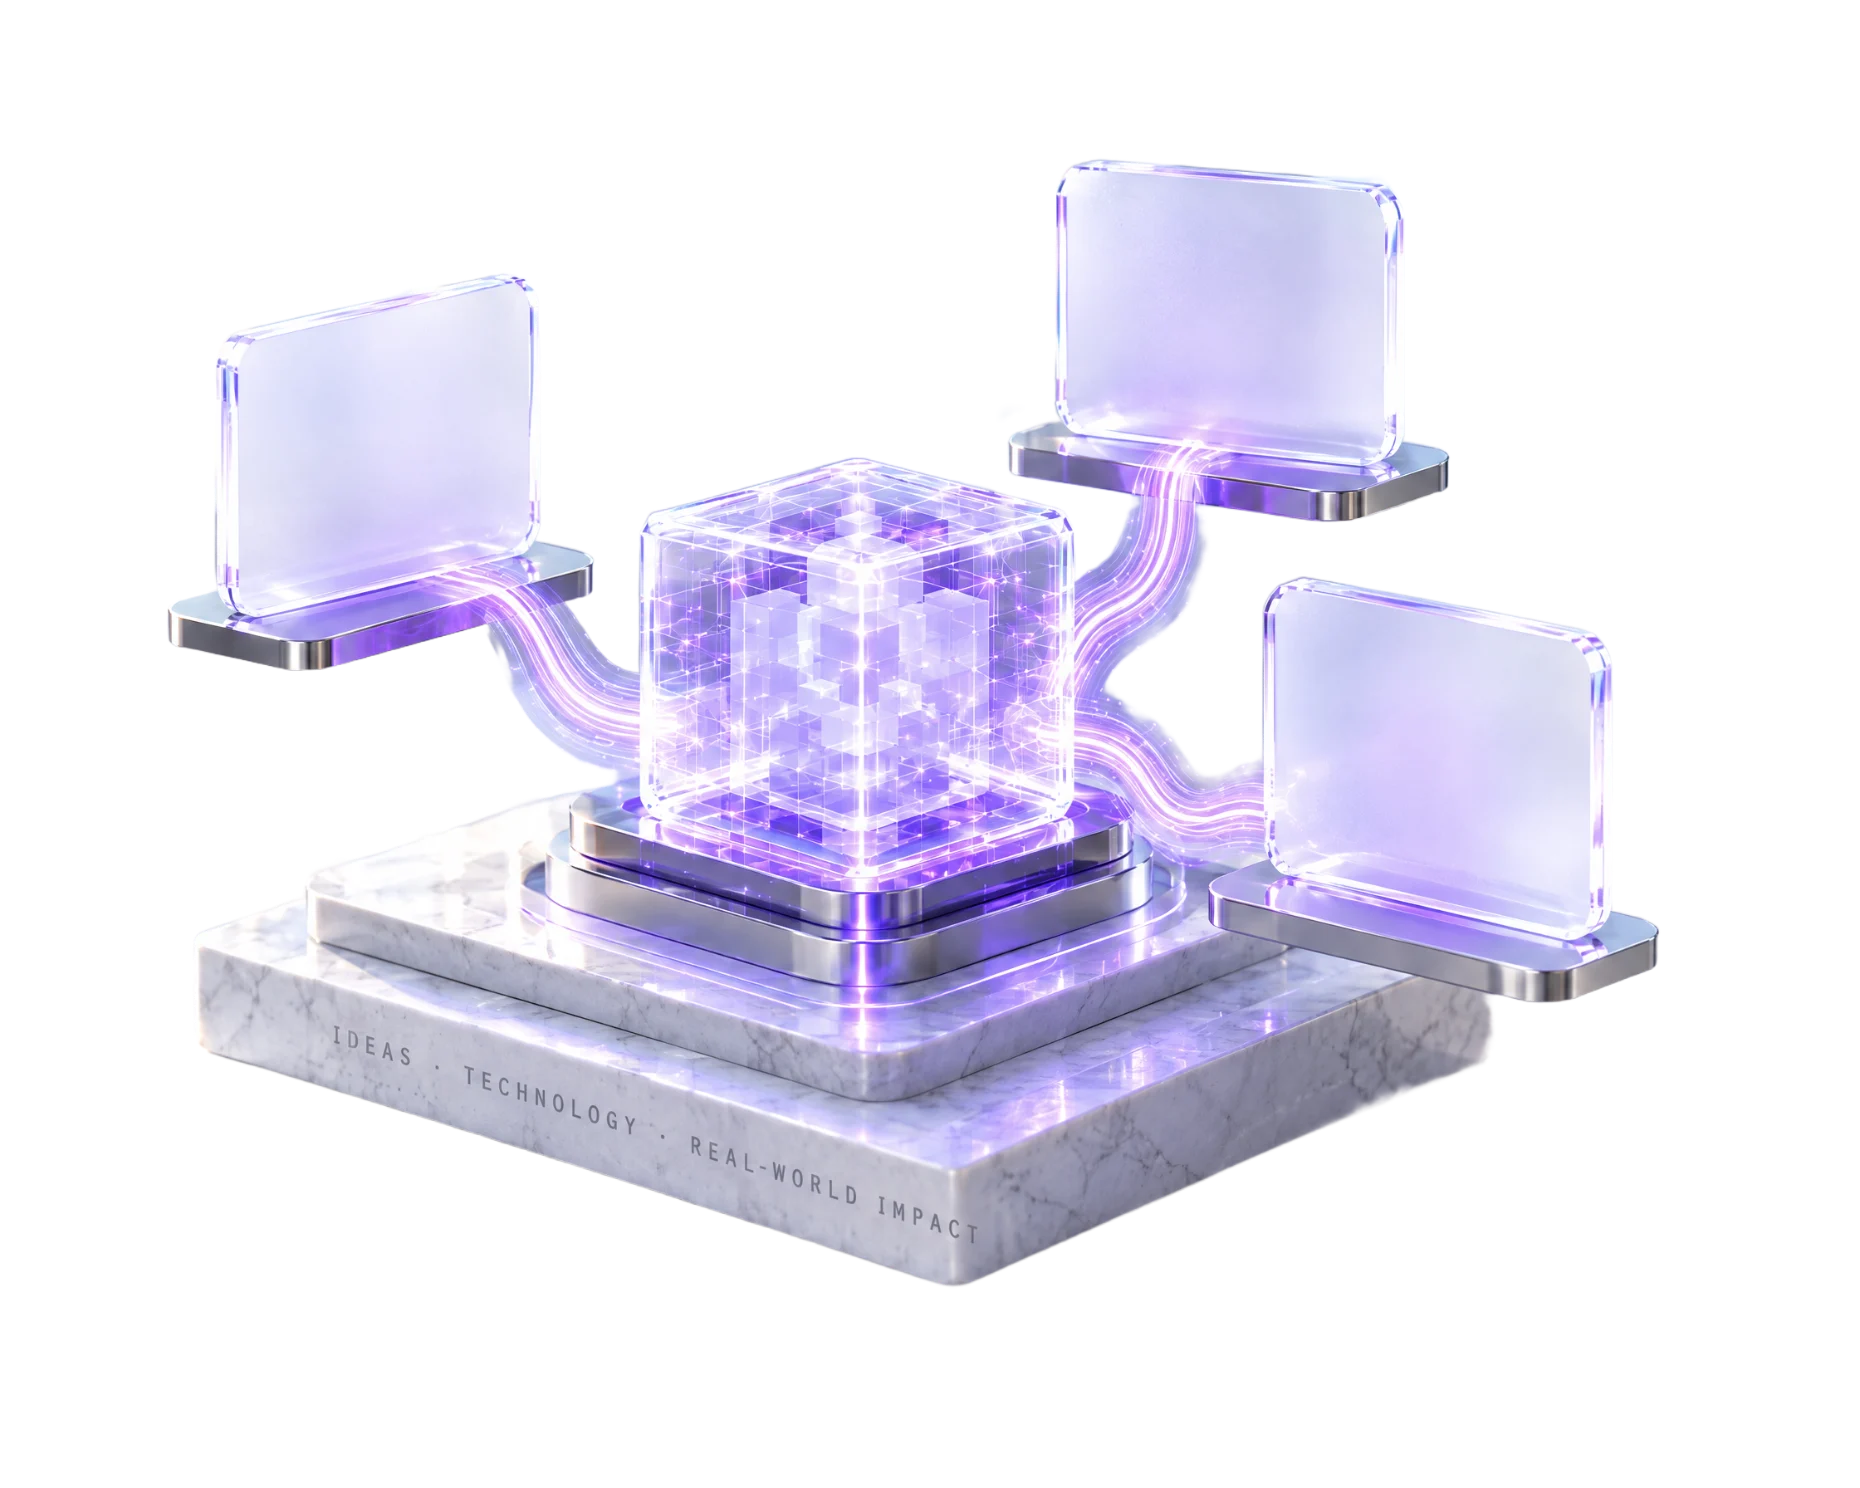
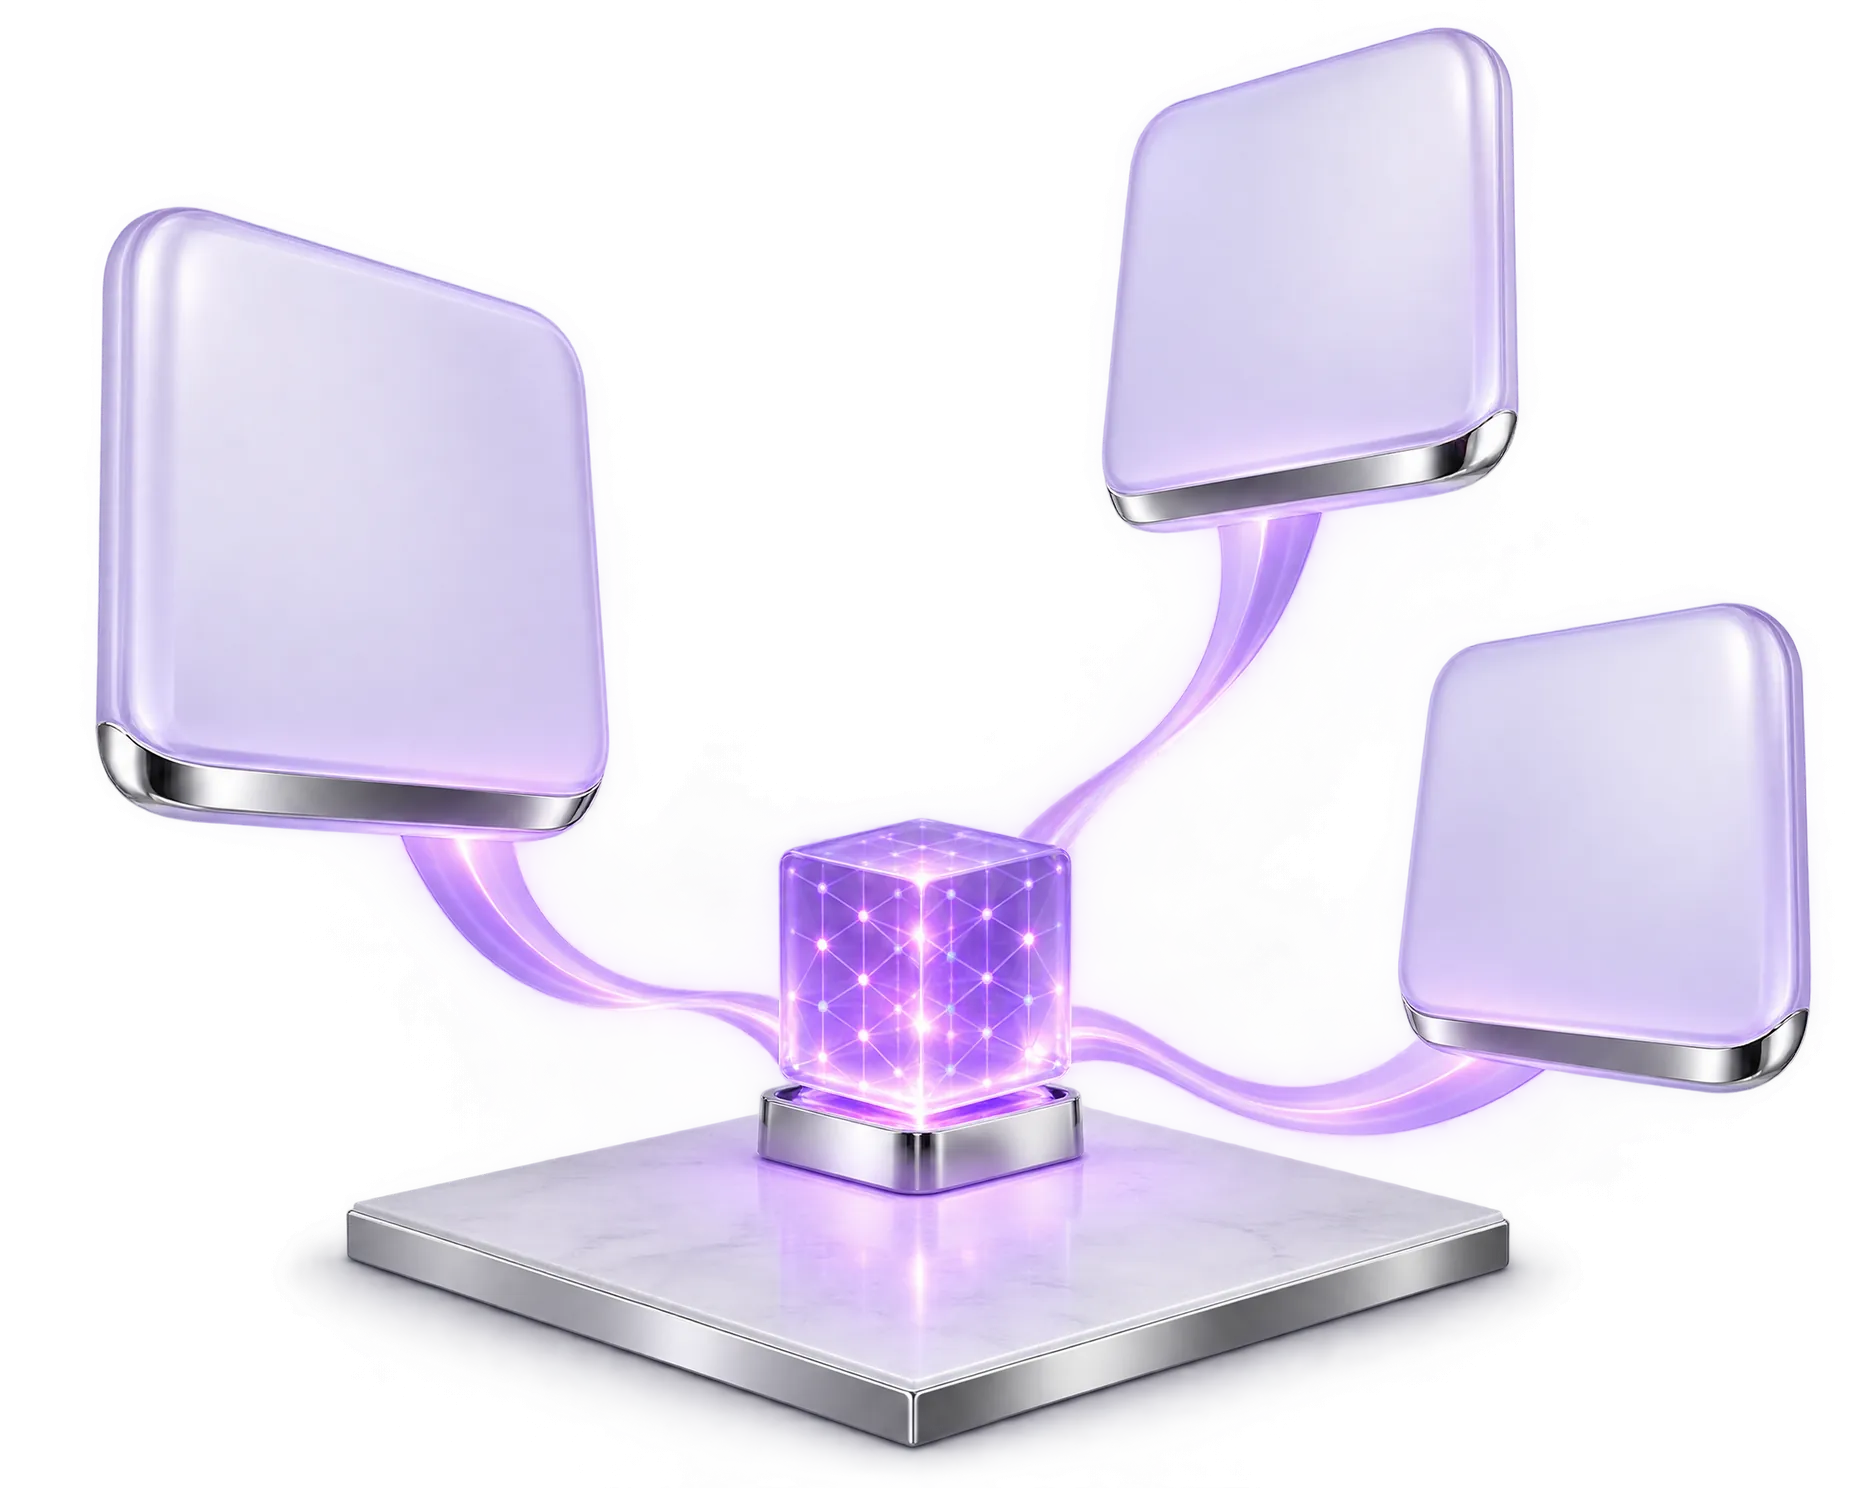
hero: the founder's artwork in a 50/50 split, and what it costs
The homepage hero now renders HeroArtwork, using artwork the founder supplied
on 2026-09-28, with the hero split set to even halves as he asked.

WHAT WAS MEASURED, BECAUSE THE COST IS REAL AND NOT COSMETIC. The supplied
artwork carries its wording as PIXELS, set at about 23px against a 1774px
width. Delivered size scales with the column: the previous 1.25fr column gave
724px and 9.4px, these even halves give 532px and 6.9px, and a 10px floor needs
771px. Tested at 1280, 1440, 1920 and 2560 viewports - the visual is 532px at
EVERY one, because --wrap is capped at 1160px, so a larger monitor does not
rescue it. This corrected an expectation that it would.

MITIGATED, NOT SOLVED. The same wording is carried as clip-rect screen-reader
text and the three service links are preserved over the tiles, so a picture of
text does not also cost the page its navigation or its indexability. The
wording itself is still unreadable at this size, and three options are with the
founder.

HeroVisual is KEPT, not deleted. It renders a blank scene with every word as
live markup, which is the only version whose wording stays legible as the
column narrows. Switching back is one line in page.tsx.

Also in this commit, from the same session:

- The blank-tile scene generated to the founder's reference, now in
  experience-layer-*. Its tile boxes were measured off a percentage grid laid
  over the artwork; reusing the previous placement numbers would have put every
  label off its glass.
[…]

diff --git a/src/components/HeroVisual/HeroVisual.tsx b/src/components/HeroVisual/HeroVisual.tsx
@@ -22,9 +22,12 @@
  * cannot fall out of register with the scene because nothing moves them.
  *
  * POSITIONS ARE PERCENTAGES OF THE FIGURE, so the labels track the image at
- * every width rather than being pinned to one breakpoint. Each label carries a
- * small 3D transform matching the plane of the panel it sits on - flat text on
- * an angled panel reads as a sticker, and this is most of what sells it.
+ * every width rather than being pinned to one breakpoint.
+ *
+ * THE LABELS ARE FLAT. An earlier version skewed each one with a perspective
+ * transform to match the plane of its tile. Against the current render that
+ * read as wonky rather than as printed-on, and the approved reference has flat
+ * text throughout, so the transform was removed rather than retuned.
  */
 
 import Link from 'next/link';
@@ -45,11 +48,6 @@ type Panel = {
   y: number;
   w: number;
   h: number;
-  /* Yaw and pitch of the panel's own plane. The scene is viewed from above and
-     to one side, so a label needs both to sit ON the glass; yaw alone still
-     reads as a flat sticker laid over a photograph. */
-  yaw: number;
-  pitch: number;
   aside: 'left' | 'right';
 };
 
@@ -59,14 +57,28 @@ type Panel = {
    The insets were 9px, so there was room to give it. */
 const FILL = 0.88;
 
+/* MEASURED OFF THE RENDER, 2026-09-28, not carried over from the previous
+   artwork. The scene was re-rendered to the founder's reference and its tiles
+   do not sit where the old ones did, so these were read from a percentage grid
+   laid over the artwork at the artwork's own aspect - the same percentages the
+   browser will use. Reusing the old numbers would have put every label off its
+   glass. */
 const PLACEMENT: Record<string, Panel> = {
-  engineering: { x: 20.4, y: 29.7, w: 18.25, h: 22.5, yaw: 21, pitch: 7, aside: 'left' },
-  ai: { x: 65.9, y: 20.4, w: 19.25, h: 20.3, yaw: -17, pitch: 6, aside: 'right' },
-  blockchain: { x: 77.5, y: 49.4, w: 19.5, h: 21.25, yaw: -15, pitch: 7, aside: 'right' },
+  engineering: { x: 18.5, y: 31, w: 25, h: 38, aside: 'left' },
+  ai: { x: 70, y: 21, w: 21, h: 35, aside: 'right' },
+  blockchain: { x: 86.5, y: 50, w: 20, h: 36, aside: 'right' },
 };
 
-/* The cube is wider than the panels, so its label gets more room. */
-const CENTRE_POS = { x: 46, y: 43.4, w: 23.5 };
+/* THE CENTRE BLOCK SITS ON THE PLINTH, NOT ON THE CUBE, AND THAT IS A
+   LEGIBILITY DECISION RATHER THAN A LAYOUT PREFERENCE. Measured against the
+   delivered pixels: on the cube the title cleared AA at 5.93:1 but the
+   supporting line came to 2.47:1, well under the 4.5 it needs, and white was no
+   escape at 3.01:1 - this render's cube is saturated where the reference's was
+   pale. On the marble the same two measure 11.14:1 and 4.63:1. The marble is
+   also FLAT, where the cube is full of bright sparkles that a contrast ratio
+   does not capture but an eye does. The label still reads as the cube's, since
+   it sits directly beneath it and the ribbons converge there. */
+const CENTRE_POS = { x: 50, y: 84, w: 34 };
 
 function Icon({ id }: { id: string }) {
   return (
@@ -131,13 +143,14 @@ export function HeroVisual() {
             key={s.id}
             style={{ left: `${p.x}%`, top: `${p.y}%`, width: `${p.w * FILL}%` }}
           >
-            <Link
-              className="hv__hit"
-              href={s.href}
-              style={{
-                transform: `perspective(760px) rotateX(${p.pitch}deg) rotateY(${p.yaw}deg)`,
-              }}
-            >
+            {/* NO 3D TRANSFORM ON THE LABEL, DELIBERATELY. It used to carry a
+                perspective rotateX/rotateY matching the plane of its tile, on
+                the theory that flat text on an angled panel reads as a sticker.
+                Against this render it simply read as WONKY, and the founder's
+                own reference settles it: the text in that reference is dead
+                flat. Skewed type also costs legibility at the size this
+                actually renders, which the scene can least afford. */}
+            <Link className="hv__hit" href={s.href}>
               <Icon id={s.id} />
               <span className="hv__title">{s.title}</span>
               <span className="hv__line">{s.description}</span>

diff --git a/src/components/HeroVisual/HeroArtwork.tsx b/src/components/HeroVisual/HeroArtwork.tsx
@@ -1,0 +1,94 @@
+/**
+ * The homepage hero visual, as the founder's supplied artwork.
+ *
+ * HOW THIS DIFFERS FROM HeroVisual, WHICH IS STILL IN THE REPO. That one renders
+ * a BLANK scene and puts every word over it as live markup. This one uses
+ * artwork that already CARRIES its wording as pixels, so the words here exist
+ * only for machines - and that difference has a measured cost, recorded below
+ * rather than discovered later.
+ *
+ * THE COST, MEASURED RATHER THAN ASSERTED. The artwork is 1774px wide and its
+ * supporting lines are set at about 23px. On screen the text scales with the
+ * figure: at a 773px figure it reaches 10px, at the current 62.5% column it is
+ * 9.4px, and in a 50/50 split it is 7.5px. Pixels cannot resize, so this is a
+ * property of the artwork and the column width, not something CSS can fix.
+ *
+ * THE WORDING IS STILL HERE, FOR SCREEN READERS AND SEARCH ENGINES. A picture
+ * of text is not text: it is not read aloud, not indexed, not translated, not
+ * selectable and not searchable. The block below carries the same eleven strings
+ * from the same single source of truth the other component uses, positioned off
+ * screen with the clip-rect pattern rather than `display: none`, which would
+ * remove it from the accessibility tree and defeat the point.
+ *
+ * THE THREE SERVICE LINKS SURVIVE. Their boxes were measured off the artwork and
+ * they sit over the tiles a visitor can see, so clicking the Engineering tile
+ * still reaches the Engineering page. Losing them would have quietly cost the
+ * homepage three internal links.
+ *
+ * THE ARTWORK IS CUT OUT, NOT PASTED ON WHITE. The hero band is a radial
+ * gradient that measures rgb(248,243,251) behind the figure, so the supplied
+ * opaque white version would have shown as a visible white rectangle against it.
+ */
+
+import Link from 'next/link';
+
+import { CENTRE, SERVICES } from '@/content/hero-capabilities';
+
+/* MEASURED OFF THE SUPPLIED ARTWORK with a percentage grid laid over it at its
+   own aspect, so these are the same percentages the browser applies. Centre
+   x/y and width/height of each tile's glass face, as a percentage of the
+   figure. */
+const HITS: Record<string, { x: number; y: number; w: number; h: number }> = {
+  engineering: { x: 24.5, y: 30, w: 17, h: 40 },
+  ai: { x: 69.5, y: 17, w: 19, h: 30 },
+  blockchain: { x: 76.5, y: 59, w: 19, h: 34 },
+};
+
+export function HeroArtwork() {
+  return (
+    <figure className="ha">
+      <img
+        alt=""
+        aria-hidden
+        className="ha__img"
+        height={887}
+        sizes="(max-width: 900px) 92vw, 50vw"
+        src="/hero/hero-artwork-1240.webp"
+        srcSet="/hero/hero-artwork-820.webp 820w, /hero/hero-artwork-1240.webp 1240w, /hero/hero-artwork-1774.webp 1774w"
+        width={1774}
+      />
+
+      {/* Real links over the tiles a visitor can see. They carry no visible text
+          of their own - the artwork supplies that - so each needs an accessible
+          name, which is what the span provides. */}
+      {SERVICES.map(s => {
+        const h = HITS[s.id];
+        return (
+          <Link
+            className="ha__hit"
+            href={s.href}
+            key={s.id}
+            style={{ left: `${h.x}%`, top: `${h.y}%`, width: `${h.w}%`, height: `${h.h}%` }}
+          >
+            <span className="ha__sr">{s.title}</span>
+          </Link>
+        );
+      })}
+
+      {/* The hero's argument, for anything that cannot see the picture. Ordered
+          as the eye reads it: the three capabilities, then what they add up to. */}
+      <div className="ha__sr">
+        {SERVICES.map(s => (
+          <p key={s.id}>
+            {s.title}. {s.description} {s.supporting.join('. ')}.
+          </p>
+        ))}
+        <p>
+          {CENTRE.title}. {CENTRE.description}
+        </p>
+      </div>
+    </figure>
+  );
+}
+
+export default HeroArtwork;

diff --git a/src/components/HeroVisual/heroartwork.css b/src/components/HeroVisual/heroartwork.css
@@ -1,0 +1,53 @@
+/* The homepage hero visual when it is the founder's supplied artwork.
+   Deliberately small: the artwork carries the whole composition, so there is no
+   label geometry to maintain here - only the frame, the hit areas and the
+   screen-reader text. */
+
+.ha {
+  position: relative;
+  margin: 0;
+  width: 100%;
+  /* The artwork is exactly 2:1. Declaring it stops the surrounding layout
+     jumping while the image loads, which a hero is the worst place for. */
+  aspect-ratio: 1774 / 887;
+}
+
+.ha__img {
+  display: block;
+  width: 100%;
+  height: 100%;
+  object-fit: contain;
+}
+
+/* The three service links. They sit over tiles the visitor can see, so they are
+   invisible by design rather than by accident - but they are still focusable,
+   and a keyboard user gets a visible ring in the right place because the box is
+   the tile's real box. */
+.ha__hit {
+  position: absolute;
+  transform: translate(-50%, -50%);
+  border-radius: 10px;
+  display: block;
+}
+
+.ha__hit:focus-visible {
+  outline: 2px solid var(--brand);
+  outline-offset: 3px;
+}
+
+/* Off screen but still announced. NOT `display: none` and NOT
+   `visibility: hidden`, either of which would take it out of the accessibility
+   tree and leave the hero mute to a screen reader - which is the entire reason
+   this block exists. */
+.ha__sr {
+  position: absolute;
+  width: 1px;
+  height: 1px;
+  margin: -1px;
+  padding: 0;
+  overflow: hidden;
+  clip: rect(0 0 0 0);
+  clip-path: inset(50%);
+  white-space: nowrap;
+  border: 0;
+}

diff --git a/src/app/globals.css b/src/app/globals.css
@@ -1,4 +1,5 @@
 @import '../components/HeroVisual/herovisual.css';
+@import '../components/HeroVisual/heroartwork.css';
 @import '../components/SpatialDemo/spatial.css';
 
 /* ---- AR/VR hero film ------------------------------------------------------
@@ -6614,11 +6615,16 @@ button.btn[disabled] {
 /* ---- the hero's split composition ---------------------------------------- */
 .hero-split {
   display: grid;
-  /* The visual carries the whole capability argument now - three labelled
-     panels, a centre and two columns of supporting words - so it needs more
-     room than the copy beside it. Measured: below about a 780px figure the
-     supporting lines fall under 10px and stop being readable. */
-  grid-template-columns: minmax(0, 0.75fr) minmax(0, 1.25fr);
+  /* EVEN HALVES, to the founder's instruction of 2026-09-28.
+     THE TRADE THIS MAKES IS RECORDED BECAUSE IT IS NOT FREE. The visual carries
+     the whole capability argument - three labelled tiles, a centre and two
+     columns of supporting words - and in the supplied artwork those words are
+     PIXELS, so they shrink with the column. Measured against that artwork
+     (1774px wide, supporting lines set at about 23px): a 773px figure puts them
+     at 10px, the previous 1.25fr column gave 724px and 9.4px, and these even
+     halves give 579px and 7.5px. Nothing in CSS can recover that - it is the
+     artwork's own resolution against the column width. */
+  grid-template-columns: minmax(0, 1fr) minmax(0, 1fr);
   gap: 48px;
   align-items: center;
 }

diff --git a/src/app/page.tsx b/src/app/page.tsx
@@ -7,7 +7,7 @@ import Link from 'next/link';
  * The copy comes from the same services.ts the WebGL version used, so there is
  * one place to change it and the two cannot drift.
  */
-import { HeroVisual } from '@/components/HeroVisual/HeroVisual';
+import { HeroArtwork } from '@/components/HeroVisual/HeroArtwork';
 import { LiveDiagram } from '@/components/LiveDiagram';
 import {
   CertifiedHandoff,
@@ -418,8 +418,12 @@ export default function HomePage() {
             founder settles on one; if the 3D version stands, it should be
             deleted rather than left orphaned.
           */}
+          {/* THE FOUNDER'S SUPPLIED ARTWORK, 2026-09-28. HeroVisual is left in
+              the repo rather than deleted: it renders a BLANK scene with every
+              word as live markup, which is the only version whose wording stays
+              legible as the column narrows. Swapping back is this one line. */}
           <div className="hero-split__viz">
-            <HeroVisual />
+            <HeroArtwork />
           </div>
         </div>
       </div>

diff --git a/DEPENDENCIES.md b/DEPENDENCIES.md
@@ -212,6 +212,31 @@ supplied with the wording baked in, then reverted when that wording measured
 7–8px at the hero's render size. The files listed above are what ships. See the
 ADR-0053 addendum.)*
 
+> **SUPERSEDED THE SAME DAY, TWICE OVER — the line above saying "the files
+> listed above are what ships" IS NO LONGER TRUE.** Corrected here rather than
+> edited in place, so the drift is visible rather than quietly tidied away.
+>
+> 1. **The `experience-layer-*` BYTES WERE REPLACED.** They now hold a
+>    different `gpt_image_2_5` render (a blank-tile scene made to the founder's
+>    reference), encoded at quality 80 / alphaQuality 80 — settings chosen by
+>    isolating one knob at a time, since below alphaQuality ~80 the faint halo
+>    goes blotchy against the hero's tinted background. 75.3 / 146.2 / 293.6 kB.
+>    The row above describes sizes and a provenance that no longer match the
+>    file contents.
+> 2. **NOTHING ON THE PAGE REFERENCES THEM ANY MORE.** The homepage hero now
+>    renders `HeroArtwork`, not `HeroVisual`. `experience-layer-*` are modified
+>    but unused; `HeroVisual` is kept deliberately as the one-line way back.
+>
+> **THE ASSET THAT ACTUALLY SHIPS, AND ITS LICENCE POSITION IS DIFFERENT:**
+>
+> | | |
+> |---|---|
+> | Asset | `public/hero/hero-artwork-{820,1240,1774}.webp` |
+> | Size | 57.6 / 98.3 / 108.2 kB, transparent (`isOpaque=false`, verified with sharp) |
+> | Origin | **Supplied by the founder on 2026-09-28.** Delivered opaque on white at 1774x887; the white was removed here by a border flood fill (53.5% of the canvas cleared) because the hero band is a radial gradient measuring rgb(248,243,251) behind the figure, against which an opaque white rectangle would have been plainly visible |
+> | Licence | **UNKNOWN — and NOT the same question as the Higgsfield assets.** How this artwork was produced has not been stated: commissioned, made in-house, or generated on some other service are all consistent with what was supplied. It must not be assumed to carry the founder's own rights merely because he supplied it, and it must not be assumed to carry the Higgsfield question either. **ASK BEFORE PUBLICATION.** |
+> | Known cost | its wording is BAKED IN at about 23px against a 1774px width, so it lands at 6.9px in the shipped 50/50 column and is unreadable. Mitigated, not solved: the same wording is carried as screen-reader text and the three tile links are preserved, so machines and keyboard users still get it |
+
 This is a deliberate gap, not an oversight. The asset is destined for a company
 website, so what the Higgsfield plan grants for **commercial use** of generated
 output has to be read from their terms rather than assumed, and that is the
